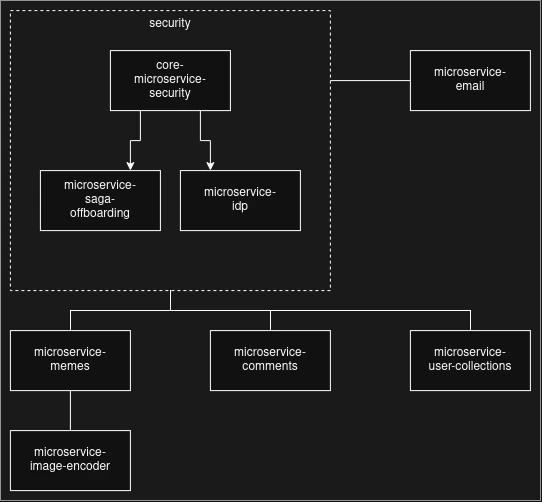
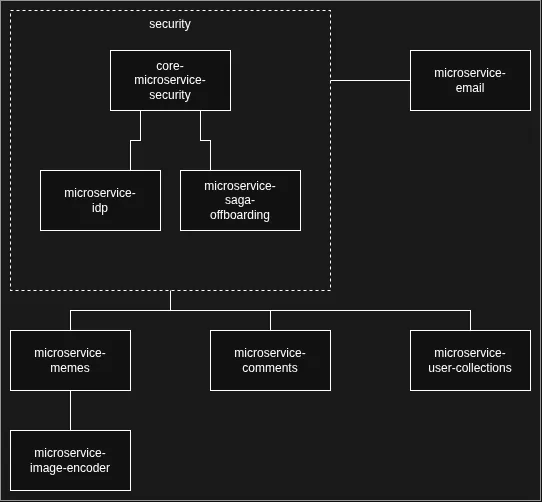
article: review, then translate and publish the meme-sandbox-architecture-0.1

diff --git a/src/content/posts/meme-sandbox-architecture-0.1.pl.md b/src/content/posts/meme-sandbox-architecture-0.1.pl.md
@@ -4,28 +4,44 @@ date: 2026-09-11
 section: it
 project: portal
 tags: [architektura]
-excerpt: "Ogólny zarys architektury mikroserwisowej."
-draft: true
+excerpt: "Ogólny zarys architektury mikroserwisowej. Plany na wersje 0.2 oraz 1.0."
+draft: false
 ---
 
-Większość mikroserwisów tworzona była w Javie, jedynie stuby i enkoder obrazów był pisany w Pythonie. Dlaczego Java? Dojrzały ekosystem, bogactwo narzędzi i skupienie na testach, z których później generowana będzie dokumentacja. Tam gdzie Java to koniecznie stosuję DDD i architekturę heksagonalną lub BCE (Boundary-Control-Entity) w prostszych przypadkach. Przyjąłem zasadę, że mikroserwisy, które nie wymagają pisania jakiejś zawiłej dokumentacji i nie są interesujące dla użytkownika, jak np. kompresja obrazu, będą pisane w pythonie.
+Większość mikroserwisów [portalu z memami](/wpisy/pl/meme-sandbox/) powstała w Javie, jedynie stuby i enkoder obrazów były pisane w Pythonie. Dlaczego Java? Dojrzały ekosystem, bogactwo narzędzi i skupienie na testach, z których później generowana będzie dokumentacja. Tam, gdzie Java, stosuję DDD i architekturę heksagonalną, a w prostszych przypadkach BCE (Boundary-Control-Entity). Przyjąłem zasadę, że stuby oraz mikroserwisy bez logiki domenowej i bez dokumentacji do wygenerowania piszę w Pythonie, np. konwersję obrazów.
+
+## Dlaczego mikroserwisy
+
+To jest poligon doświadczalny. Chcę zbadać:
+
+* jak system zachowuje się, kiedy wybrane serwisy zostają wyłączone
+* komunikację synchroniczną i asynchroniczną
+* testowanie systemu rozproszonego
+
+Kiedy wydam wersję 1.0, planuję dwa kroki:
+
+* naprzód - dorzucić skalowanie
+* wstecz - przejść do architektury monolitycznej. Wiem, że wiele osób zaleca zaczynać od monolitu, ale to ograniczyłoby frajdę z budowania wersji 0.1, 0.2 oraz 1.0. Chciałbym doprowadzić do sytuacji, w której aplikacji frontendowej nie będzie robiło większej różnicy, czy komunikuje się z monolitem, czy z mikroserwisami.
 
 ## Architektura
 
-![](../image/architecture-0.1.webp)
+![Diagram architektury](../image/architecture-0.1.webp)
 
-Na pierwszym planie widać trzy mikroserwisy:
+To widok z lotu ptaka: same mikroserwisy i ich zależności, bez komunikacji, baz danych i wdrożenia.
 
-* **core-microservice-security**: generyczny mikroserwis bezpieczeństwa. Pojemnik na przypadki użycia typu: uwierzytelnianie, rejestracja itd. Poniższe mikroserwisy współpracują z nim.
-* **microservice-idp**: w środowisku deweloperskim służy jako stub providerów tożsamości takich jak Google czy Github.
+W ramce "security" widać trzy mikroserwisy:
+
+* **core-microservice-security**: generyczny mikroserwis bezpieczeństwa. Pojemnik na przypadki użycia takie jak uwierzytelnianie czy rejestracja. Dwa poniższe mikroserwisy współpracują z nim.
+* **microservice-idp**: w środowisku deweloperskim służy jako stub dostawców tożsamości, takich jak Google czy GitHub.
 * **microservice-saga-offboarding**: orkiestrator sagi usuwania konta. Funkcjonalność umyślnie została wydzielona do osobnego mikroserwisu z uwagi na wiedzę domenową o portalu z memami.
 
-Na prawo od sekcji "security" ustawiony jest **microservice-email**, którego zadaniem jest wysyłanie maili do zatwierdzenia rejestracji konta. To jest jego jedyny cel istnienia. Mógłbym go wciągnąć do sekcji security, ale wysyłanie maili nie ma nic wspólnego z bezpieczeństwem. W planach na przyszłość mam utworzenie ***microservice-notifications*** który z pewnością zrobi użytek z **microservice-email**, ale będzie też korzystał z ***microservice-sms*** oraz ***microservice-push***.
+Na prawo od sekcji "security" ustawiony jest **microservice-email**, którego zadaniem jest wysyłanie maili do zatwierdzenia rejestracji konta. To jest jego jedyny cel istnienia. Mógłbym go wciągnąć do sekcji security, ale wysyłanie maili nie ma nic wspólnego z bezpieczeństwem. W planach na przyszłość mam utworzenie ***microservice-notifications*** który z pewnością zrobi użytek z **microservice-email**, ale będzie też korzystał z ***microservice-sms*** oraz ***microservice-push***. To byłaby wersja 1.0.
 
 Mikroserwisy na dole, opisane od lewej do prawej:
-* **microservice-memes**: obsługa wrzucania i przechowywania obrazów. Optymalizację deleguje do poniższego mikroserwisu.
-  * **microservice-image-encoder**: mikroserwis do konwersji obrazów, pisany w Python.
+
+* **microservice-memes**: obsługa wrzucania i przechowywania obrazów. Konwersję deleguje do opisanego niżej mikroserwisu.
+  * **microservice-image-encoder**: mikroserwis do konwersji obrazów, pisany w Pythonie.
 * **microservice-comments**: komentarze. Nie wymaga komentarza.
 * **microservice-user-collections**: memy i komentarze można zapisać do ulubionych.
 
-Gdzieś po drodze rozważałem wydzielenie głosów do dedykowanego **microservice-votes**, ale dla prostoty głosy przechowywane są w **microservice-memes** oraz **microservice-comments**. Być może na kolejną wersję 0.2 rozważę ten pomysł.
+Gdzieś po drodze rozważałem wydzielenie głosów do dedykowanego ***microservice-votes***, ale dla prostoty głosy przechowywane są w **microservice-memes** oraz **microservice-comments**. Być może wydzielę go w wersji 0.2, ale nie dla samego podziału. Chcę, aby UI wyświetlił napis "brak danych" w polu z liczbą głosów, kiedy taki mikroserwis ubiję. Wersja 0.1 tego nie sprawdzi.

diff --git a/src/content/posts/meme-sandbox-architecture-0.1.en.md b/src/content/posts/meme-sandbox-architecture-0.1.en.md
@@ -1,0 +1,47 @@
+---
+title: "A Sandbox Full of Memes - Version 0.1 Architecture"
+date: 2026-09-11
+section: it
+project: portal
+tags: [architecture]
+excerpt: "A bird's eye view of the microservice architecture. Plans for versions 0.2 and 1.0."
+draft: false
+---
+
+Most of the microservices in the [meme portal](/wpisy/en/meme-sandbox/) were written in Java, only the stubs and the image encoder went to Python. Why Java? A mature ecosystem, plenty of tooling and a focus on tests, which will later generate the documentation. Where there is Java, I use DDD and hexagonal architecture, and BCE (Boundary-Control-Entity) in the simpler cases. I set myself a rule: stubs and microservices with no domain logic and no documentation to generate are written in Python, image conversion for instance.
+
+## Why microservices
+
+This is a testing ground. I want to see:
+
+* how the system behaves when selected services are switched off
+* synchronous and asynchronous communication
+* testing a distributed system
+
+Once I release version 1.0, I plan two moves:
+
+* forwards - add scaling
+* backwards - go to a monolithic architecture. I know many people advise starting from a monolith, but that would take away the fun of building versions 0.1, 0.2 and 1.0. What I am after is a situation where the frontend application barely notices whether it talks to a monolith or to microservices.
+
+## Architecture
+
+![Architecture diagram](../image/architecture-0.1.webp)
+
+This is a bird's eye view: the microservices and their dependencies, with no communication, no databases and no deployment.
+
+Inside the "security" box there are three microservices:
+
+* **core-microservice-security**: a generic security microservice. A container for use cases such as authentication or registration. The two microservices below work with it.
+* **microservice-idp**: in the development environment it acts as a stub for identity providers such as Google or GitHub.
+* **microservice-saga-offboarding**: the orchestrator of the account deletion saga. The functionality was deliberately pulled out into a separate microservice because of its domain knowledge about the meme portal.
+
+To the right of the "security" section sits **microservice-email**, whose job is to send the mails confirming account registration. That is its only reason to exist. I could pull it into the security section, but sending mail has nothing to do with security. My plans for the future include ***microservice-notifications***, which will certainly make use of **microservice-email**, but will also use ***microservice-sms*** and ***microservice-push***. That would be version 1.0.
+
+The microservices at the bottom, described from left to right:
+
+* **microservice-memes**: uploading and storing images. Conversion is delegated to the microservice described below.
+  * **microservice-image-encoder**: the image conversion microservice, written in Python.
+* **microservice-comments**: comments. No comment required.
+* **microservice-user-collections**: memes and comments can be saved to favourites.
+
+Somewhere along the way I considered pulling votes out into a dedicated ***microservice-votes***, but for simplicity votes are stored in **microservice-memes** and **microservice-comments**. I might split it out in version 0.2, though not for the sake of splitting. I want the UI to show "n/a" in the vote count field when I kill that microservice. Version 0.1 will not put that to the test.
